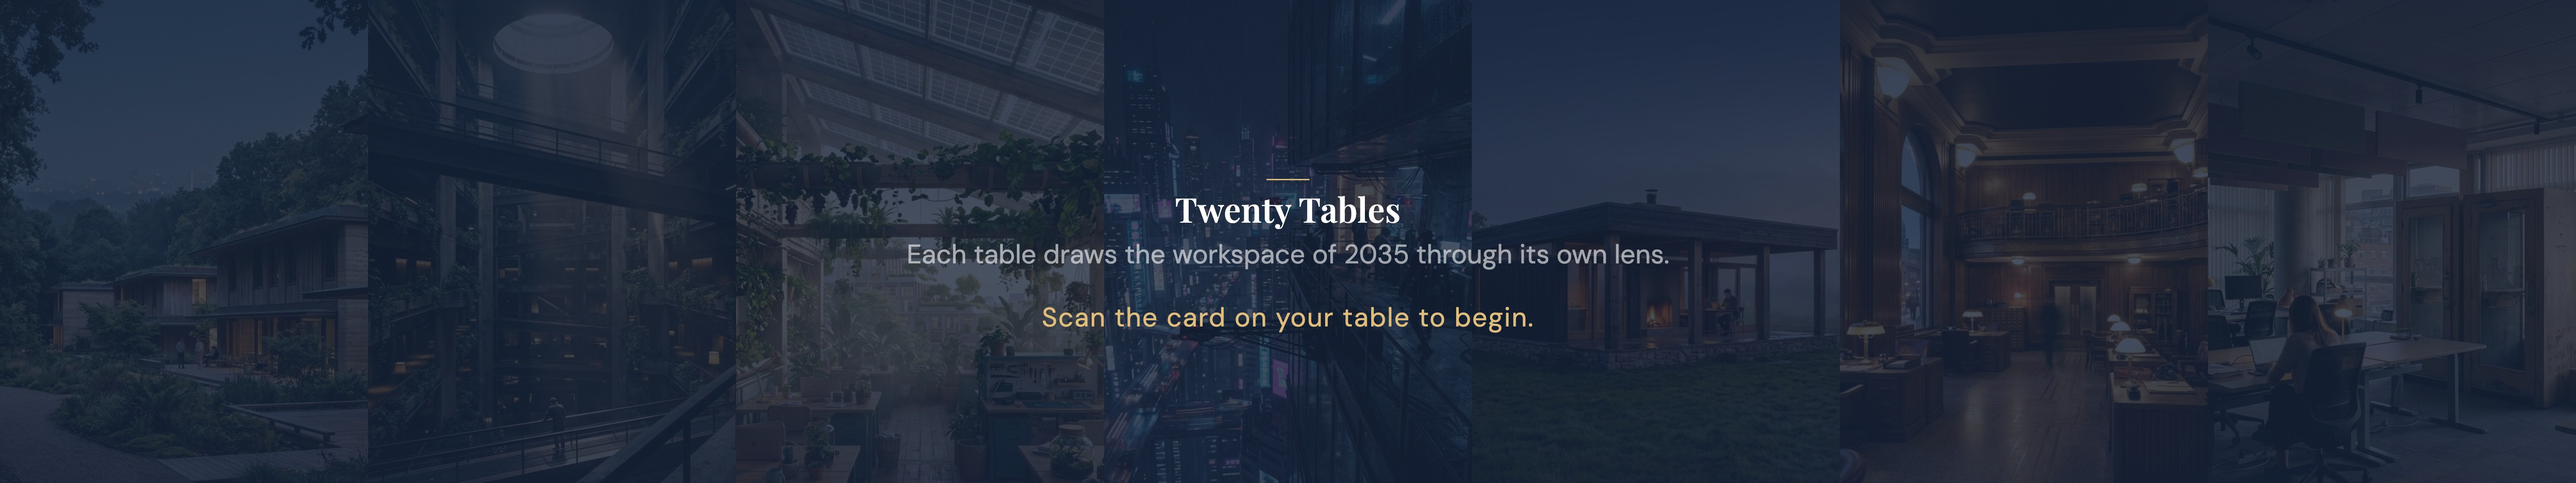
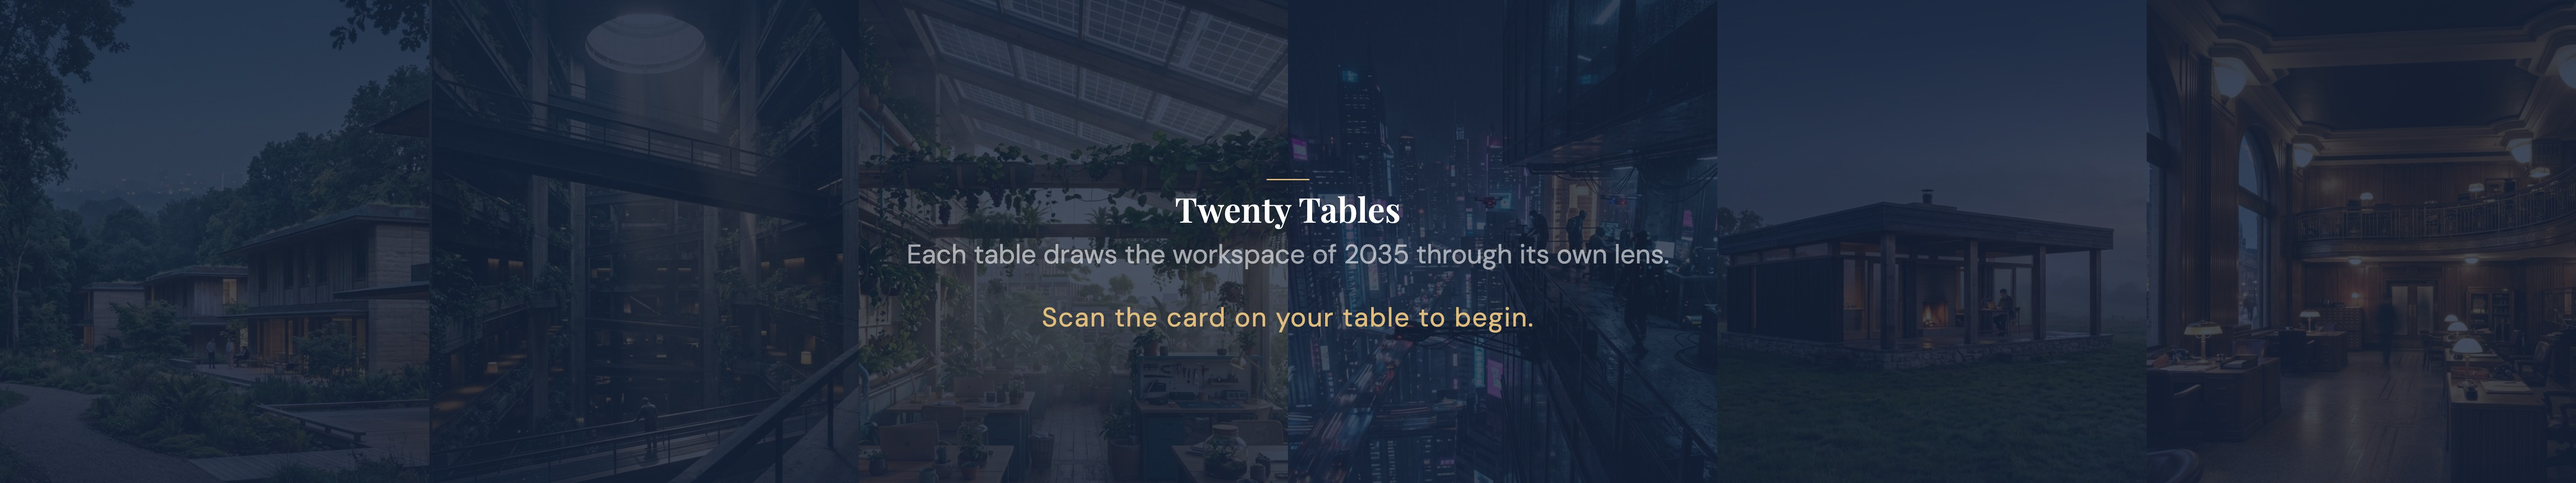
feat(projector): one tile per table on the wall, and a focus with no words
The reveal already paged one tile per table, so it needed nothing: with
one image per table it shows that image, five across the LED band, table
numbers only, no future names.

Focus changes. With a single render the triptych repeated the same picture
three times across the band, which reads as a fault rather than a
composition, so a hero table gets ONE panel at any wall width — and the
footer's "Table n" goes with it, per the brief's "no words". The lens
stays a colour band, as in every other beat.

gallery.remote.ts enumerates activeZones(env.ZONE_SET). A row from a
previous ZONE_SET is simply not shown; it still exists and the export
still carries it.

?fixtures=1 now shows what the room will actually show (the hero default);
?fixtures=four is the four-zone geometry for a room that sets it. A
fixture image is offset by table as well as by lens — with one image per
table, two tables on the same lens were handed the same JPEG, and the
first hero reveal capture showed tables 8 and 14 as one photograph, which
reads as a duplicate-render bug that is not there.

Captures retaken at both sizes. Verified: reveal fills the 5760x1080 band
with five big tiles; focus at 1920x1080 is the whole picture, no words.
Recorded for the lead rather than decided here: focus at 5760x1080 fills a
5.3:1 frame with a 16:9 render, so it crops the top and bottom off the one
picture a table gets.

diff --git a/src/routes/projector/fixtures.ts b/src/routes/projector/fixtures.ts
@@ -11,7 +11,7 @@
  * picking which one to await.
  */
 import { FUTURES } from '$lib/game/futures';
-import { ZONES } from '$lib/game/zones';
+import { activeZones, ZONES, type Zone } from '$lib/game/zones';
 import { QUESTIONS } from '$lib/game/questions';
 import { LENS_IMAGE } from '$lib/game/visuals';
 import type { ProjectorRoom, TableBeatState, TableView, ZoneImageState } from '$lib/ui/projector/types';
@@ -37,21 +37,28 @@ function zoneLens(futureIndex: number, zoneIndex: number): string {
 	return LENS_IMAGE[f.key];
 }
 
-function imagesFor(beatState: TableBeatState, futureIndex: number): TableView['images'] {
+function imagesFor(beatState: TableBeatState, futureIndex: number, zones: readonly Zone[], table: number): TableView['images'] {
 	if (beatState === 'not-started' || beatState === 'choosing' || beatState === 'answering' || beatState === 'reviewing') {
-		return ZONES.map((z) => ({ zone: z.key, state: 'none' as ZoneImageState, url: null }));
+		return zones.map((z) => ({ zone: z.key, state: 'none' as ZoneImageState, url: null }));
 	}
-	return ZONES.map((z, i) => {
-		const drawn = beatState === 'done' || i < 2;
+	return zones.map((z, i) => {
+		// A hero table has one image: it is either drawn or it is not, and
+		// "half a set has landed" has no meaning for it.
+		const drawn = beatState === 'done' || zones.length === 1 || i < 2;
 		return {
 			zone: z.key,
 			state: (drawn ? 'stored' : 'queued') as ZoneImageState,
-			url: drawn ? zoneLens(futureIndex, i) : null
+			// `+ table` so two tables on the same lens do not get the same JPEG.
+			// With four zones the zone index already separated them; with ONE
+			// image per table it did not, and the first hero reveal capture
+			// showed tables 8 and 14 as the same photograph — a fixture
+			// artefact that reads as a duplicate-render bug.
+			url: drawn ? zoneLens(futureIndex + table, i) : null
 		};
 	});
 }
 
-function buildTable(table: number): TableView {
+function buildTable(table: number, zones: readonly Zone[]): TableView {
 	const futureIndex = (table - 1) % FUTURES.length;
 	const future = FUTURES[futureIndex];
 	const beatState = STATE_CYCLE[(table - 1) % STATE_CYCLE.length];
@@ -63,15 +70,29 @@ function buildTable(table: number): TableView {
 		step,
 		totalSteps: TOTAL_STEPS,
 		futureKey: beatState === 'not-started' ? null : future.key,
-		images: imagesFor(beatState, futureIndex)
+		images: imagesFor(beatState, futureIndex, zones, table)
 	};
 }
 
-export const FIXTURE_ROOM: ProjectorRoom = {
-	// Fixtures carry a beat like real data does, so `?fixtures=1` exercises
-	// the same switch. `?beat=` overrides it, which is how the finer beats
-	// are demonstrated without a desk.
-	beat: 'reveal',
-	focusTable: null,
-	tables: Array.from({ length: 20 }, (_, i) => buildTable(i + 1))
-};
+function fixtureRoom(zones: readonly Zone[]): ProjectorRoom {
+	return {
+		// Fixtures carry a beat like real data does, so `?fixtures=1` exercises
+		// the same switch. `?beat=` overrides it, which is how the finer beats
+		// are demonstrated without a desk.
+		beat: 'reveal',
+		focusTable: null,
+		tables: Array.from({ length: 20 }, (_, i) => buildTable(i + 1, zones))
+	};
+}
+
+/**
+ * `?fixtures=1` shows what the room will actually show — one workspace
+ * image per table, the `ZONE_SET` default. The server's value cannot reach
+ * a client-side constant, so this follows the DEFAULT rather than the
+ * deploy's variable; a room running `ZONE_SET=four` checks its geometry
+ * with `?fixtures=four` below.
+ */
+export const FIXTURE_ROOM: ProjectorRoom = fixtureRoom(activeZones(undefined));
+
+/** `?fixtures=four` — the four-zone geometry, for a room that set ZONE_SET=four. */
+export const FIXTURE_ROOM_FOUR: ProjectorRoom = fixtureRoom(ZONES);

diff --git a/src/lib/ui/projector/TableSequence.svelte b/src/lib/ui/projector/TableSequence.svelte
@@ -1,4 +1,5 @@
 <script lang="ts">
+	import { isHeroZone } from '$lib/game/zones';
 	import { accentForFuture, ZONE_STEP_SECONDS } from './tokens';
 	import { futureIndexOf } from './grouping';
 	import type { TableView } from './types';
@@ -20,6 +21,17 @@
 	const loopSeconds = $derived(Math.max(shown.length, 1) * STEP_SECONDS);
 
 	/**
+	 * THE HERO FOCUS: one picture, the whole frame, and no words on it.
+	 *
+	 * With a single image the triptych below would repeat the same render
+	 * three times across the LED band, which reads as a fault rather than a
+	 * composition, so a hero table gets one panel however wide the wall is.
+	 * The footer's "Table n" goes with it — the beat is the picture. The
+	 * lens stays a colour, as it is in every other beat.
+	 */
+	const heroOnly = $derived(shown.length === 1 && isHeroZone(shown[0].zone));
+
+	/**
 	 * ONE PANEL PER 16:9 THE FRAME HOLDS.
 	 *
 	 * A zone render is 16:9. Stretching one across a 5.3:1 stage and
@@ -29,7 +41,7 @@
 	 * out of step with its neighbour, so the room sees three of this
 	 * table's four zones at once and the set still turns over.
 	 */
-	const panelOffsets = $derived(Array.from({ length: Math.max(1, panels) }, (_, k) => k));
+	const panelOffsets = $derived(heroOnly ? [0] : Array.from({ length: Math.max(1, panels) }, (_, k) => k));
 </script>
 
 <!-- Per-table sequence (zones-and-video.md §3(a)): client-side Ken Burns
@@ -58,7 +70,9 @@
 	     the number rides a bottom gradient. A header band pushed the image
 	     down and read as a dim strip of navy across the top of the wall. -->
 	<footer>
-		<span class="table-no">Table {table.table}</span>
+		{#if !heroOnly}
+			<span class="table-no">Table {table.table}</span>
+		{/if}
 		<span class="lens-band" aria-hidden="true"></span>
 	</footer>
 </section>

diff --git a/src/routes/projector/gallery.remote.ts b/src/routes/projector/gallery.remote.ts
@@ -25,7 +25,7 @@ import { query } from '$app/server';
 import { requestEnv, eventId } from '$lib/server/env';
 import { getAdminRoomRows, getBeat, getTableFutures, type AdminImageState } from '$lib/server/room';
 import { TABLE_COUNT, QUESTIONS } from '$lib/game/questions';
-import { ZONES } from '$lib/game/zones';
+import { activeZones } from '$lib/game/zones';
 import type { ProjectorRoom, TableBeatState, TableView, ZoneImageState } from '$lib/ui/projector/types';
 
 const TOTAL_STEPS = QUESTIONS.length;
@@ -76,12 +76,16 @@ export const getProjectorRoom = query(async (): Promise<ProjectorRoom> => {
 		getTableFutures(env.DB, event)
 	]);
 
+	const zones = activeZones(env.ZONE_SET);
 	const tables: TableView[] = rows.map((r) => {
 		const byZone = new Map(r.images.map((i) => [i.zoneKey, i]));
 		// An unsubmitted table provably has no image rows — `insertQueuedImage*`
 		// only ever runs after `finishTable` — so this stays empty rather than
 		// rendering four "none" placeholders per table.
-		const images = r.submittedAt ? ZONES.map((z) => toZoneView(z.key, byZone.get(z.key))) : [];
+		// Whatever this room renders — one workspace image by default. A row
+		// from a previous ZONE_SET is simply not enumerated here; it still
+		// exists, and the export still carries it.
+		const images = r.submittedAt ? zones.map((z) => toZoneView(z.key, byZone.get(z.key))) : [];
 		return {
 			table: r.table,
 			beatState: beatStateFor(r.submittedAt, r.answeredCount, images),

diff --git a/src/routes/projector/+page.svelte b/src/routes/projector/+page.svelte
@@ -12,7 +12,7 @@
 	import { page } from '$app/state';
 	import { poll } from '$lib/poll.svelte';
 	import { getProjectorRoom } from './gallery.remote';
-	import { FIXTURE_ROOM } from './fixtures';
+	import { FIXTURE_ROOM, FIXTURE_ROOM_FOUR } from './fixtures';
 	import Lobby from '$lib/ui/projector/Lobby.svelte';
 	import Progress from '$lib/ui/projector/Progress.svelte';
 	import Reveal from '$lib/ui/projector/Reveal.svelte';
@@ -28,11 +28,14 @@
 
 	// Read once, not $derived — this gates which data source `room` is
 	// initialised from below, a decision that only makes sense at mount.
-	const fixturesMode = page.url.searchParams.get('fixtures') === '1';
+	// `?fixtures=1` is the ZONE_SET default (one workspace image per table);
+	// `?fixtures=four` is the four-zone geometry, for a room that set it.
+	const fixturesParam = page.url.searchParams.get('fixtures');
+	const fixturesMode = fixturesParam === '1' || fixturesParam === 'four';
 
 	// Top-level `await` (svelte.config.js's `compilerOptions.experimental.async`) —
 	// first paint doesn't wait for the first poll tick.
-	let room = $state.raw<ProjectorRoom>(fixturesMode ? FIXTURE_ROOM : await getProjectorRoom());
+	let room = $state.raw<ProjectorRoom>(fixturesMode ? (fixturesParam === 'four' ? FIXTURE_ROOM_FOUR : FIXTURE_ROOM) : await getProjectorRoom());
 
 	const { stale } = poll(3000, async () => {
 		if (fixturesMode) return; // fixtures never touch the network — no poll, no staleness

diff --git a/src/routes/projector/gallery-query-count.test.ts b/src/routes/projector/gallery-query-count.test.ts
@@ -53,7 +53,10 @@ vi.mock('$app/server', () => {
 		getRequestEvent: () => ({
 			url: new URL('https://example.test/projector'),
 			request: new Request('https://example.test/projector'),
-			platform: { env: { DB: db, EVENT_ID: EVENT }, context: { waitUntil: () => {} } }
+			// Pinned to the FOUR-zone set deliberately: it is the worst case for
+			// a read that might grow per table per zone, which is what this
+			// measures. The hero default would make the test easier to pass.
+			platform: { env: { DB: db, EVENT_ID: EVENT, ZONE_SET: 'four' }, context: { waitUntil: () => {} } }
 		})
 	};
 });
